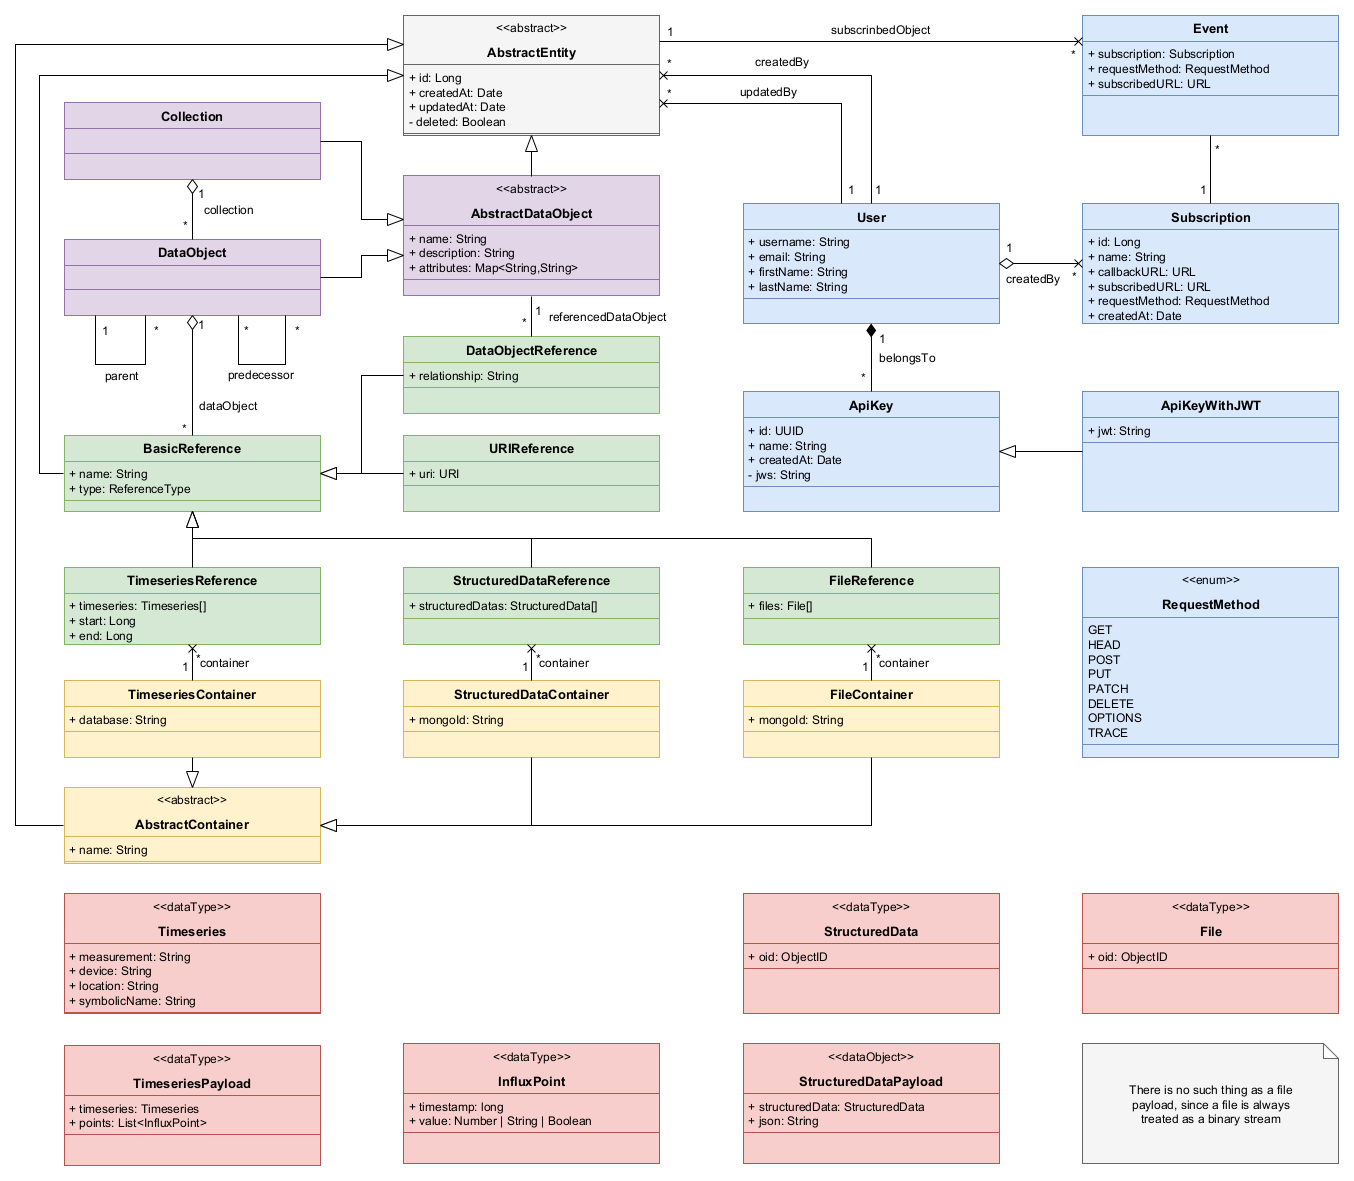
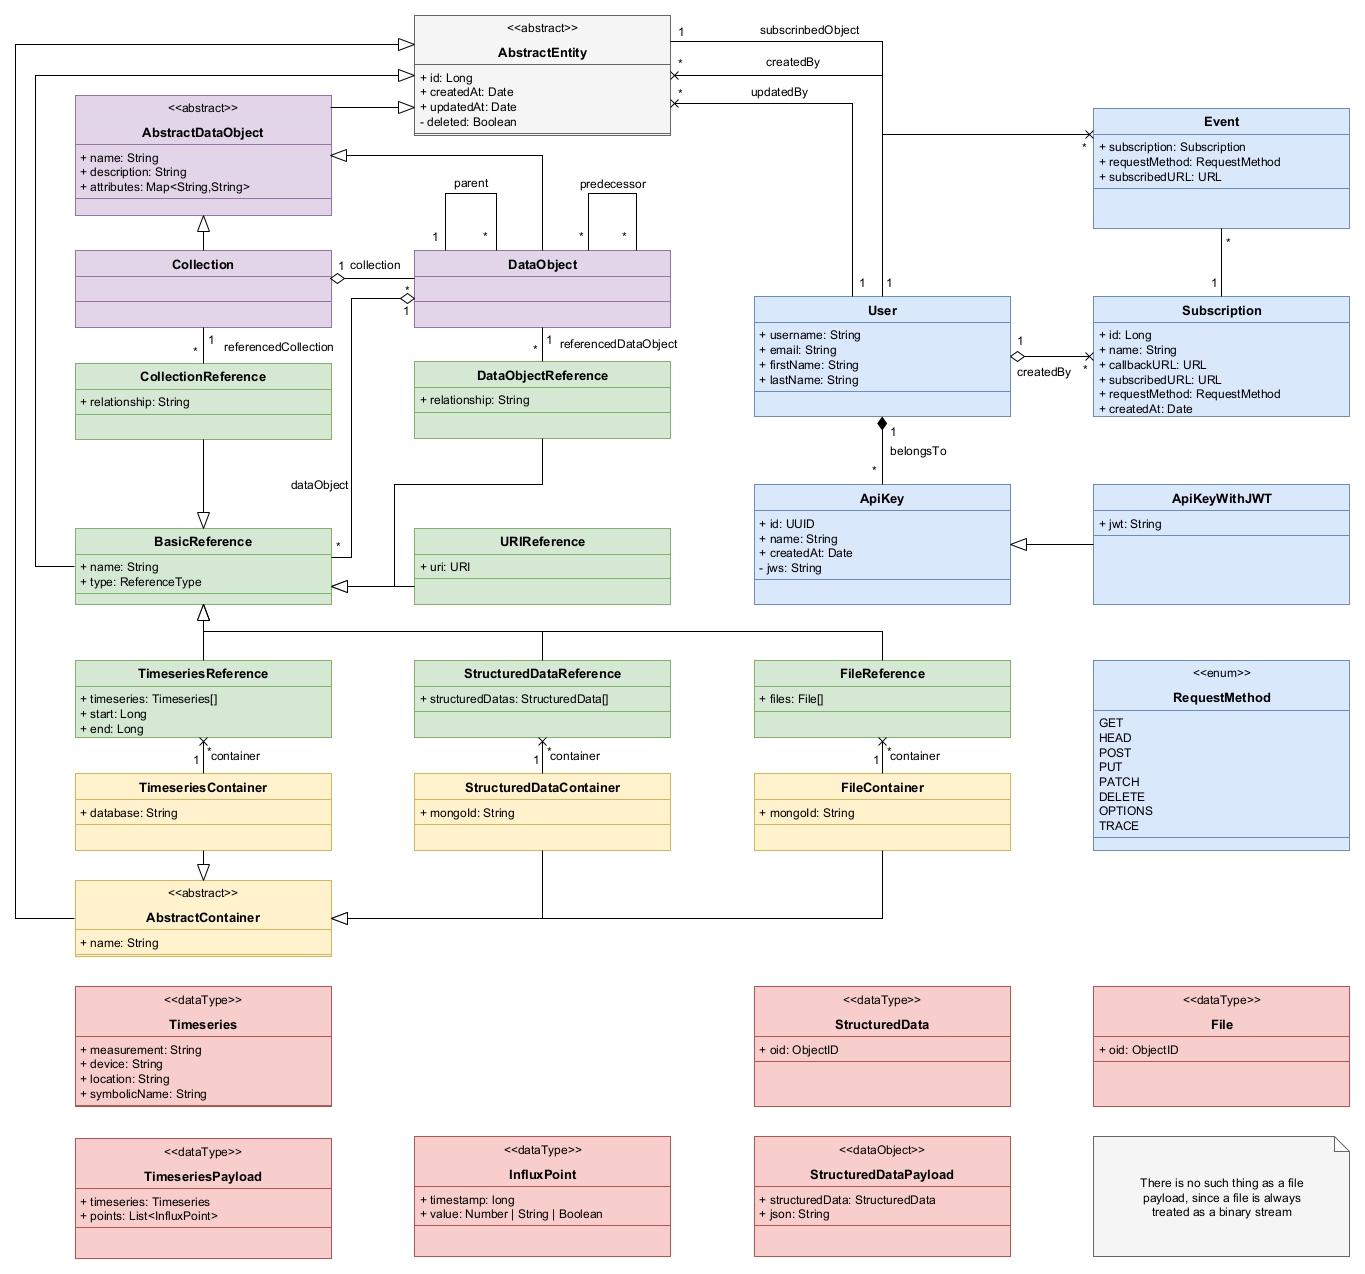
DataObjectReferences

diff --git a/api_v2.md b/api_v2.md
@@ -176,6 +176,23 @@ The following structures are examples that demonstrate the user's view of entiti
 }
 ```
 
+### CollectionReference(BasicReference)
+
+```json
+{
+  "id": 0,
+  "createdAt": "2021-05-21T11:32:00.172Z",
+  "createdBy": "string",
+  "updatedAt": "2021-05-21T11:32:00.172Z",
+  "updatedBy": "string",
+  "name": "string",
+  "collectionId": 0,
+  "type": "DataObjectReference",
+  "referencedDataObjectId": 0,
+  "relationship": "string"
+}
+```
+
 ### DataObjectReference(BasicReference)
 
 ```json